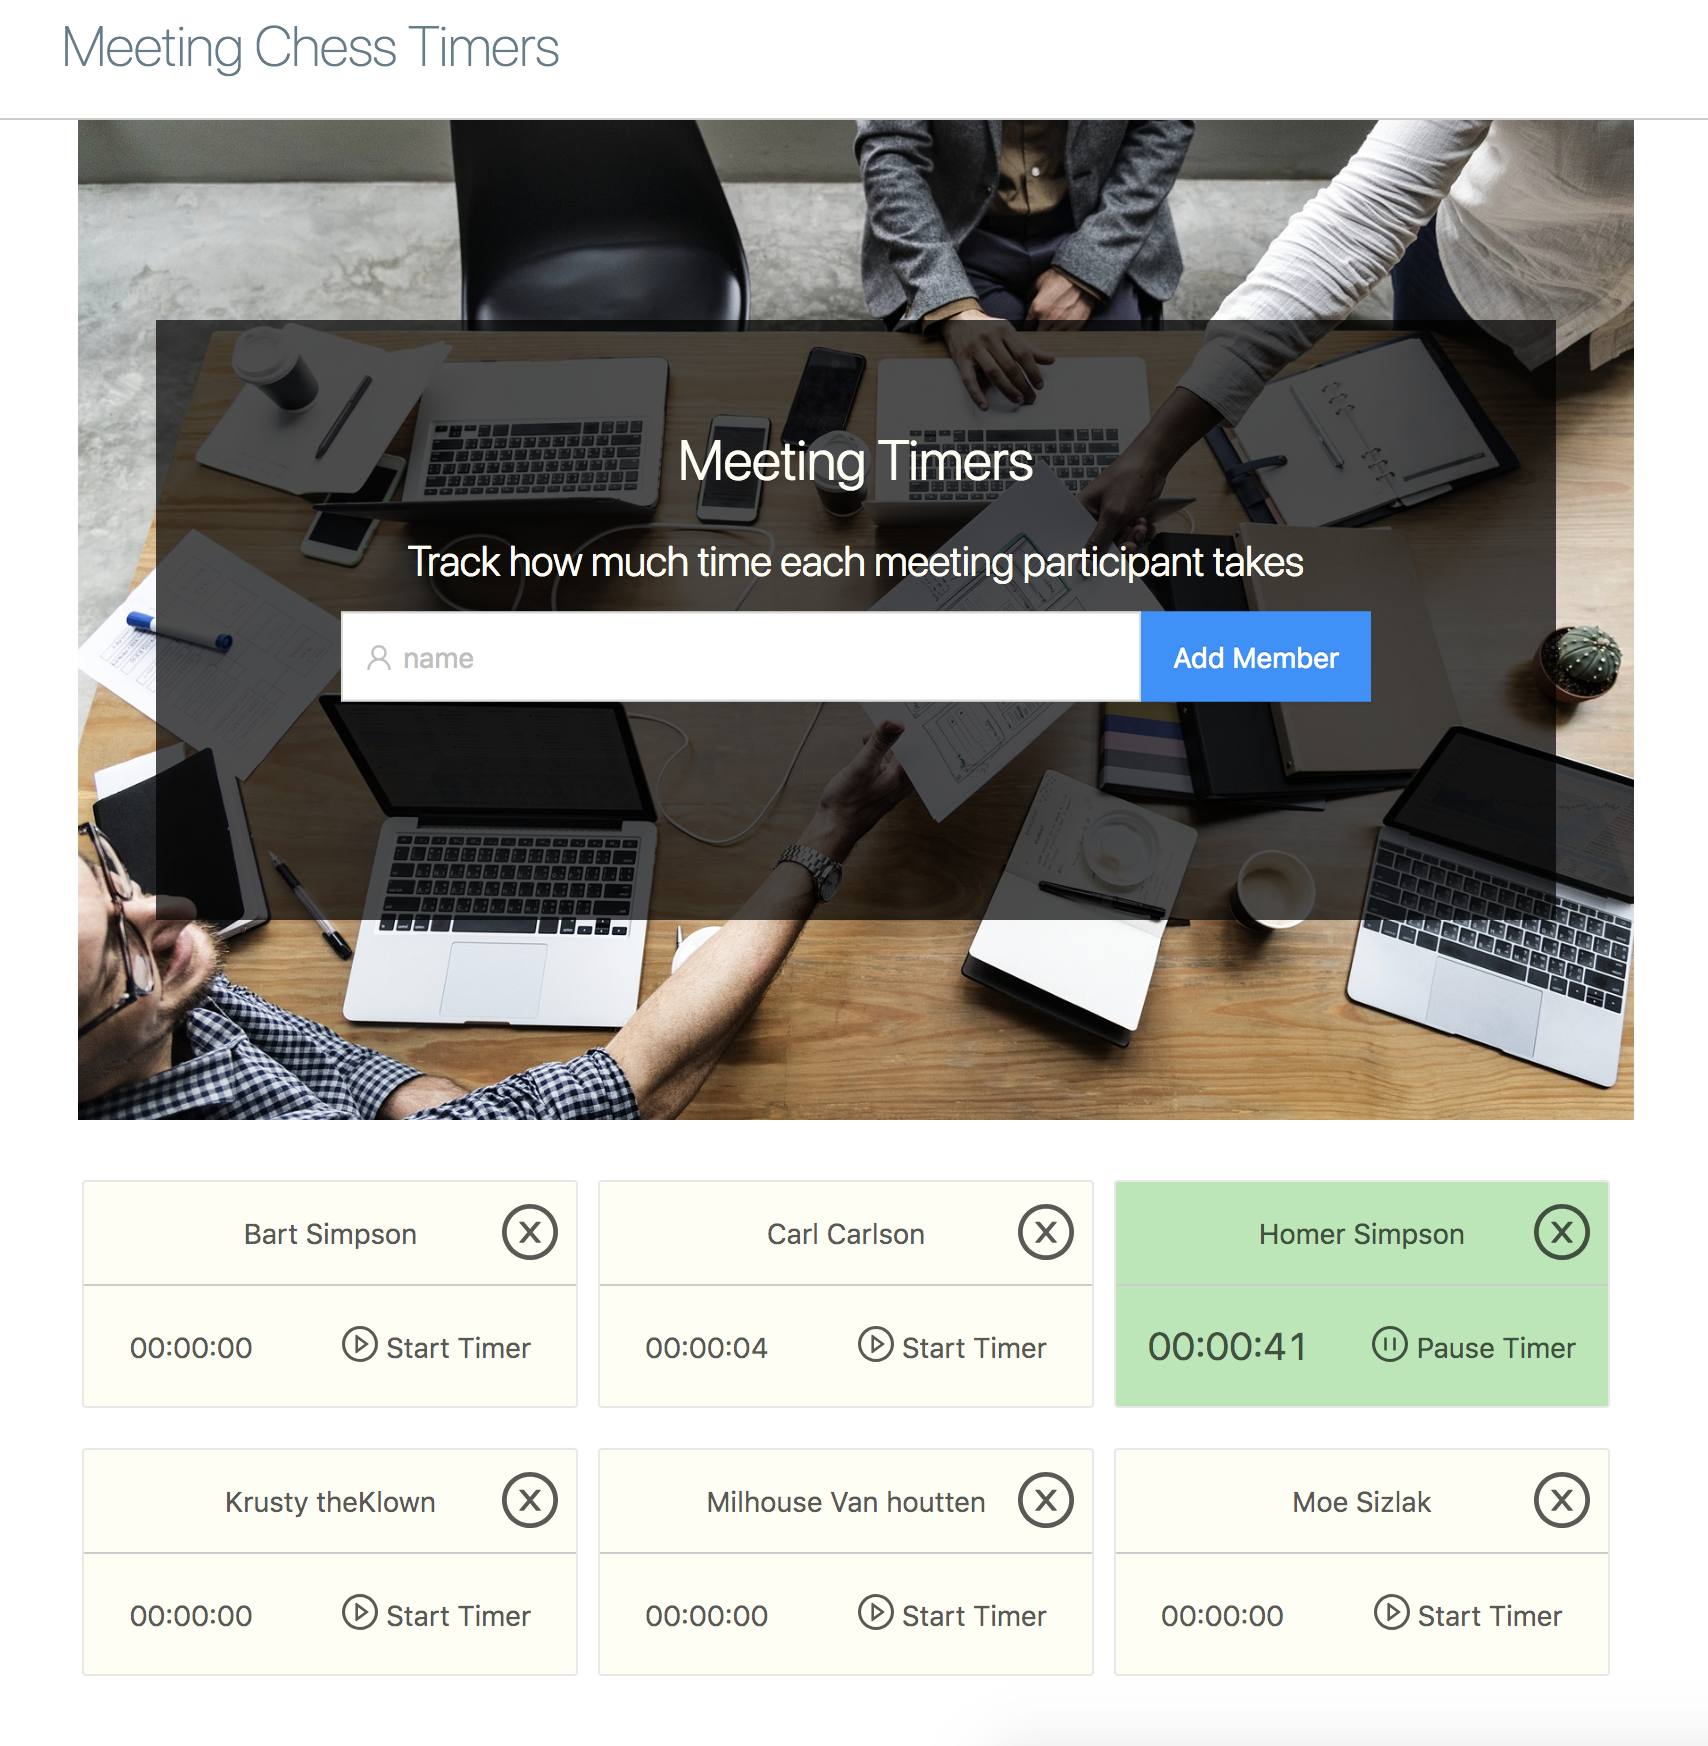
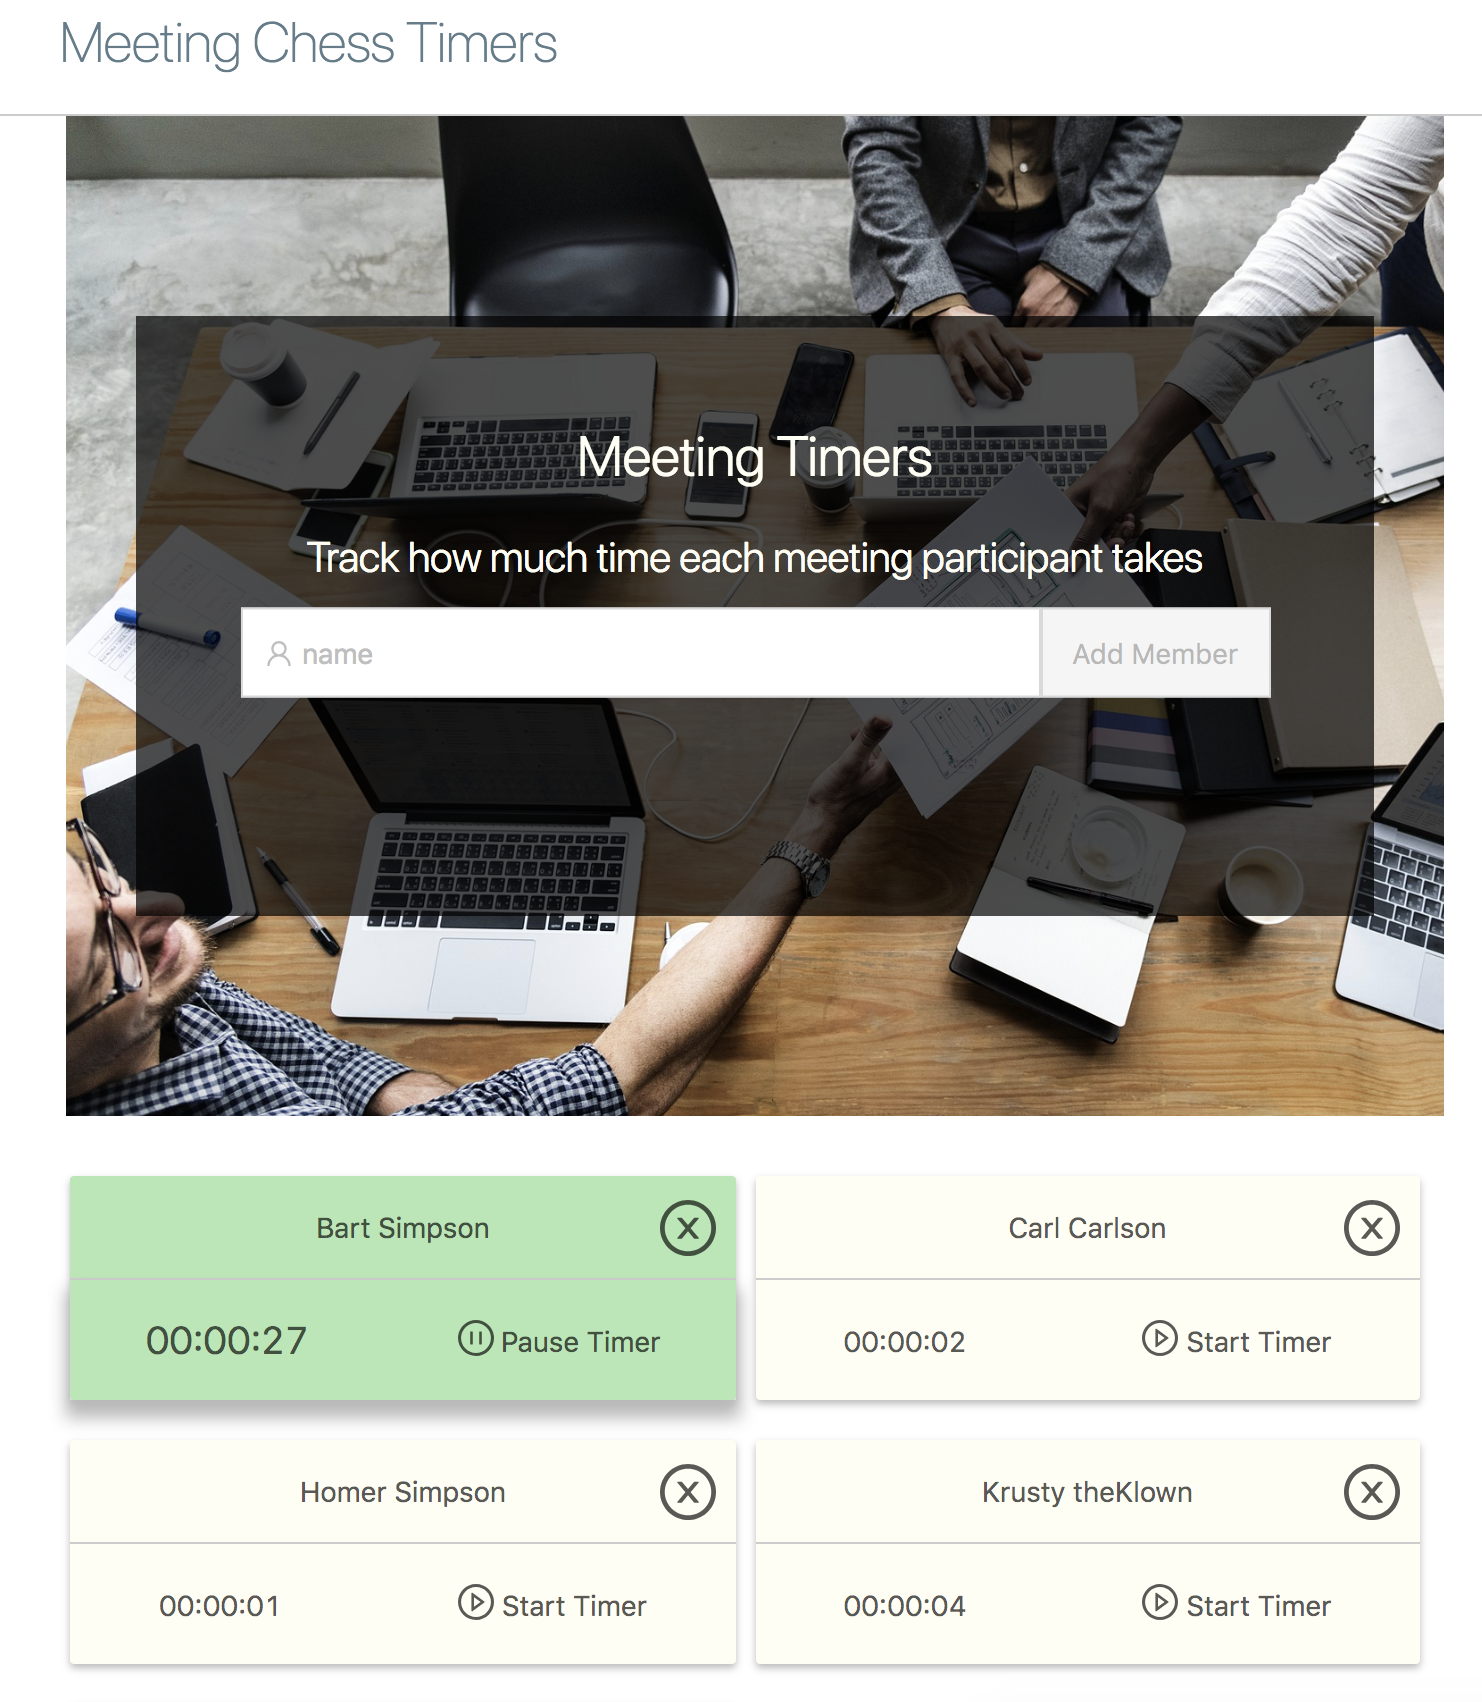
updated styles

diff --git a/src/components/Timer.jsx b/src/components/Timer.jsx
@@ -20,7 +20,9 @@ class Timer extends Component {
       this.setState({ time });
     }
 
-    componentDidUpdate({ timer }) {
+    // while one timer is running, the user could start another timer
+    // in such a case, the previously running timer should be stopped
+    componentDidUpdate({ timer }) { // timer = oldTimer
       if (timer.isRunning && !this.props.timer.isRunning) {
         clearInterval(this.interval);
       }
@@ -57,14 +59,6 @@ class Timer extends Component {
                             }
                       </div>
                   </div>
-
-                  {/* <div onClick={() => { this.toggleRunner(timer); onClick(timer); }} className="timer-btn-area">
-                                       <div className="time-counter">{hhMMss(time)}</div>
-                                       { timer.isRunning
-                                         ? (<div className="timer-btn"><Icon type="pause-circle" theme="outlined" /> Pause Timer</div>)
-                                         : (<div className="timer-btn"><Icon type="play-circle" theme="outlined" /> Start Timer </div>)
-                                       }
-                                   </div> */}
               </Card>
 
               <div className="delete-timer">

diff --git a/src/styles/App.css b/src/styles/App.css
@@ -40,6 +40,9 @@
 .ant-card {
   margin-bottom: 20px !important;
   margin-right: 10px !important;
+
+  box-shadow: rgb(186, 186, 187) 0px 2px 5px 0px;
+  border: 0px !important;
 }
 .ant-card-body {
   padding: 0px !important;
@@ -66,7 +69,8 @@
   align-items: center;
 }
 .timer-body:hover {
-  background-color: #c0f9c1;
+  /*background-color: #c0f9c1;*/
+  box-shadow: rgb(186, 186, 187) 0px 7px 12px 2px;
 }
 
 .time-counter {
